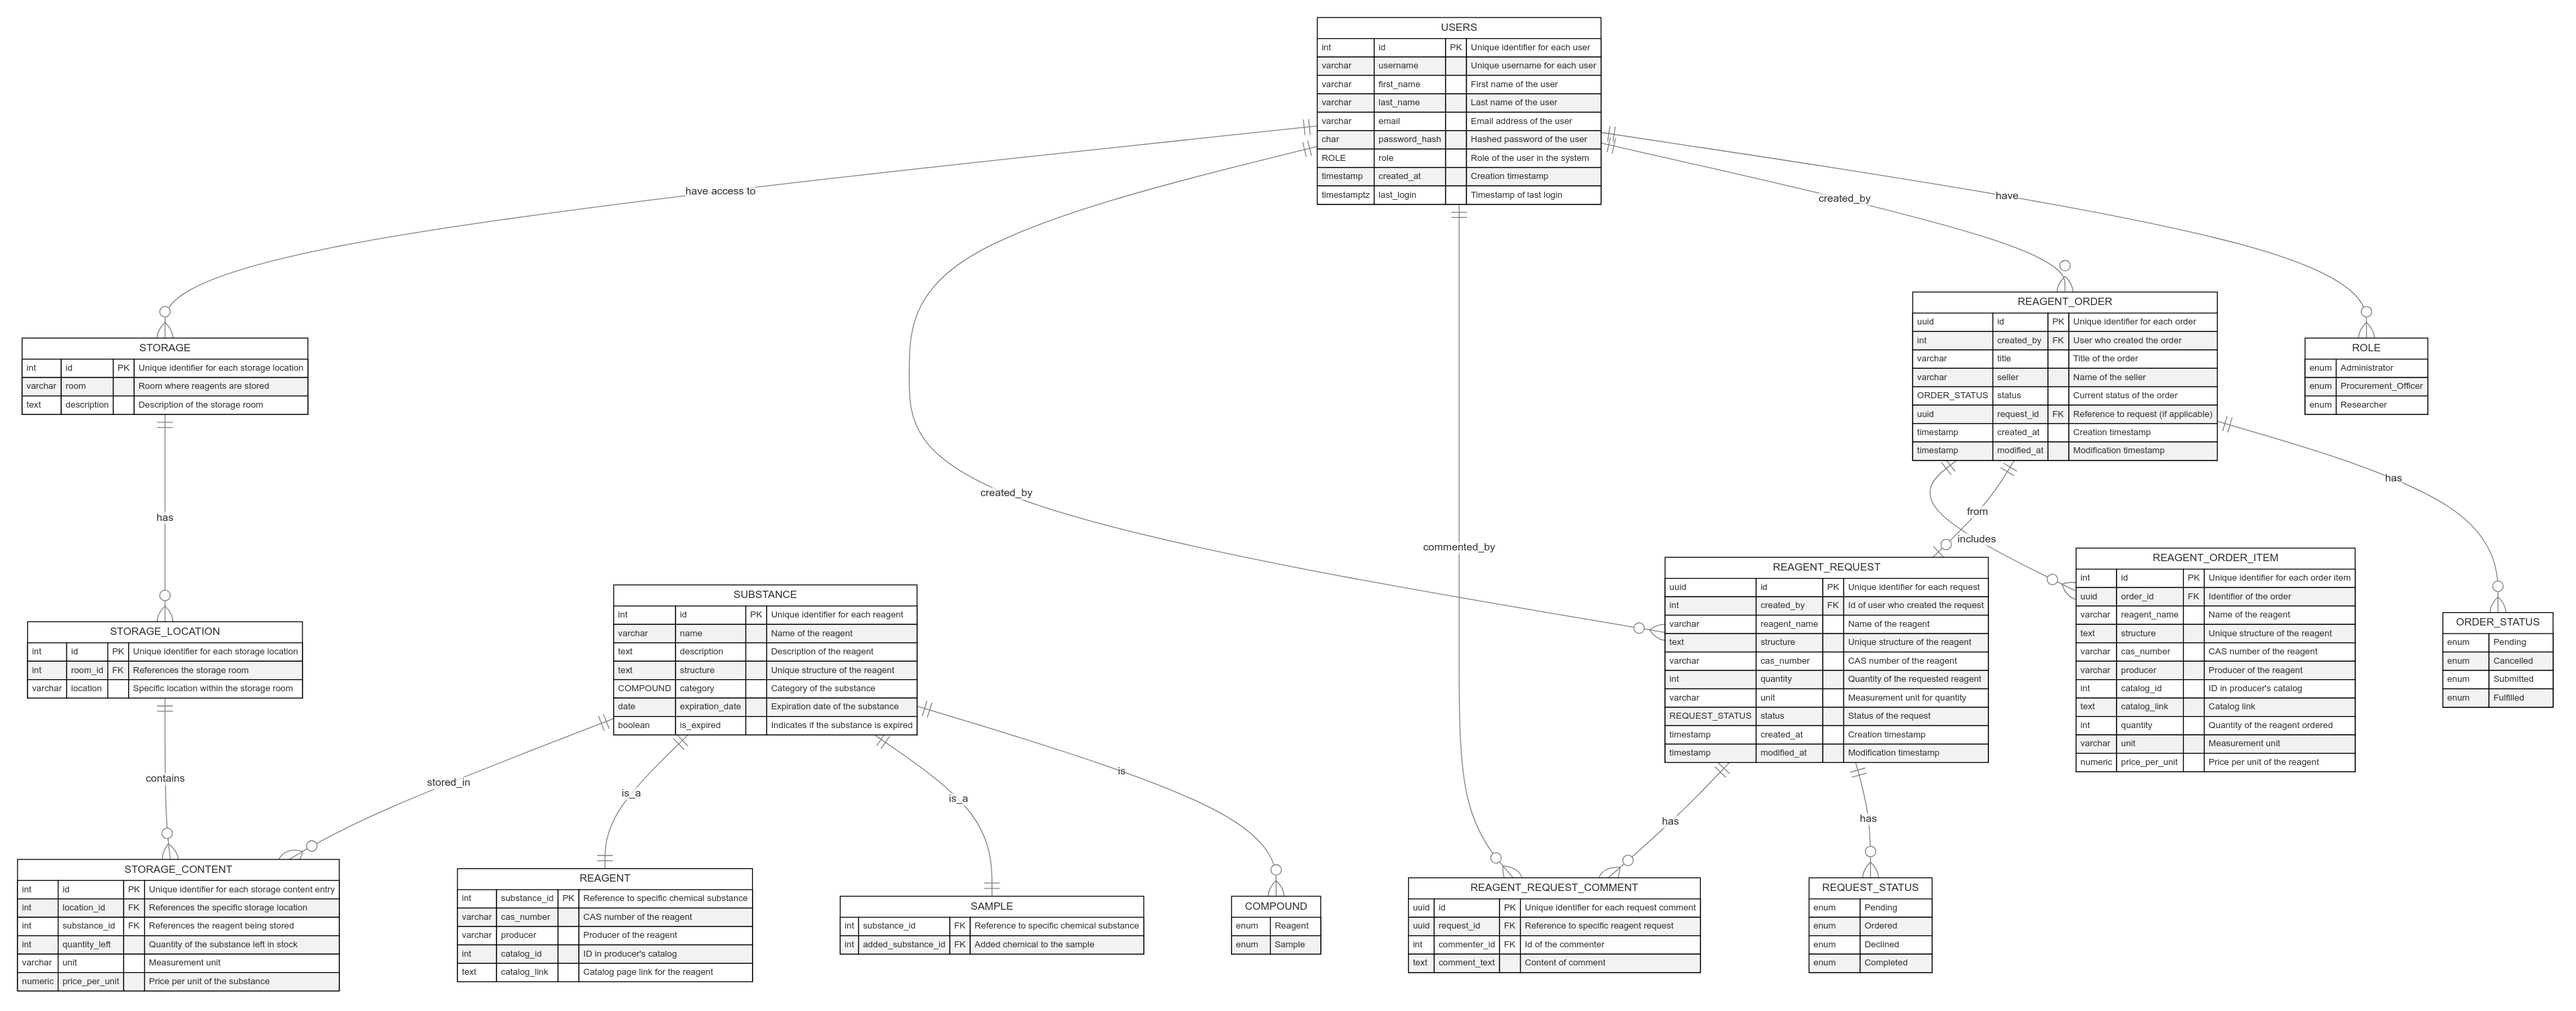
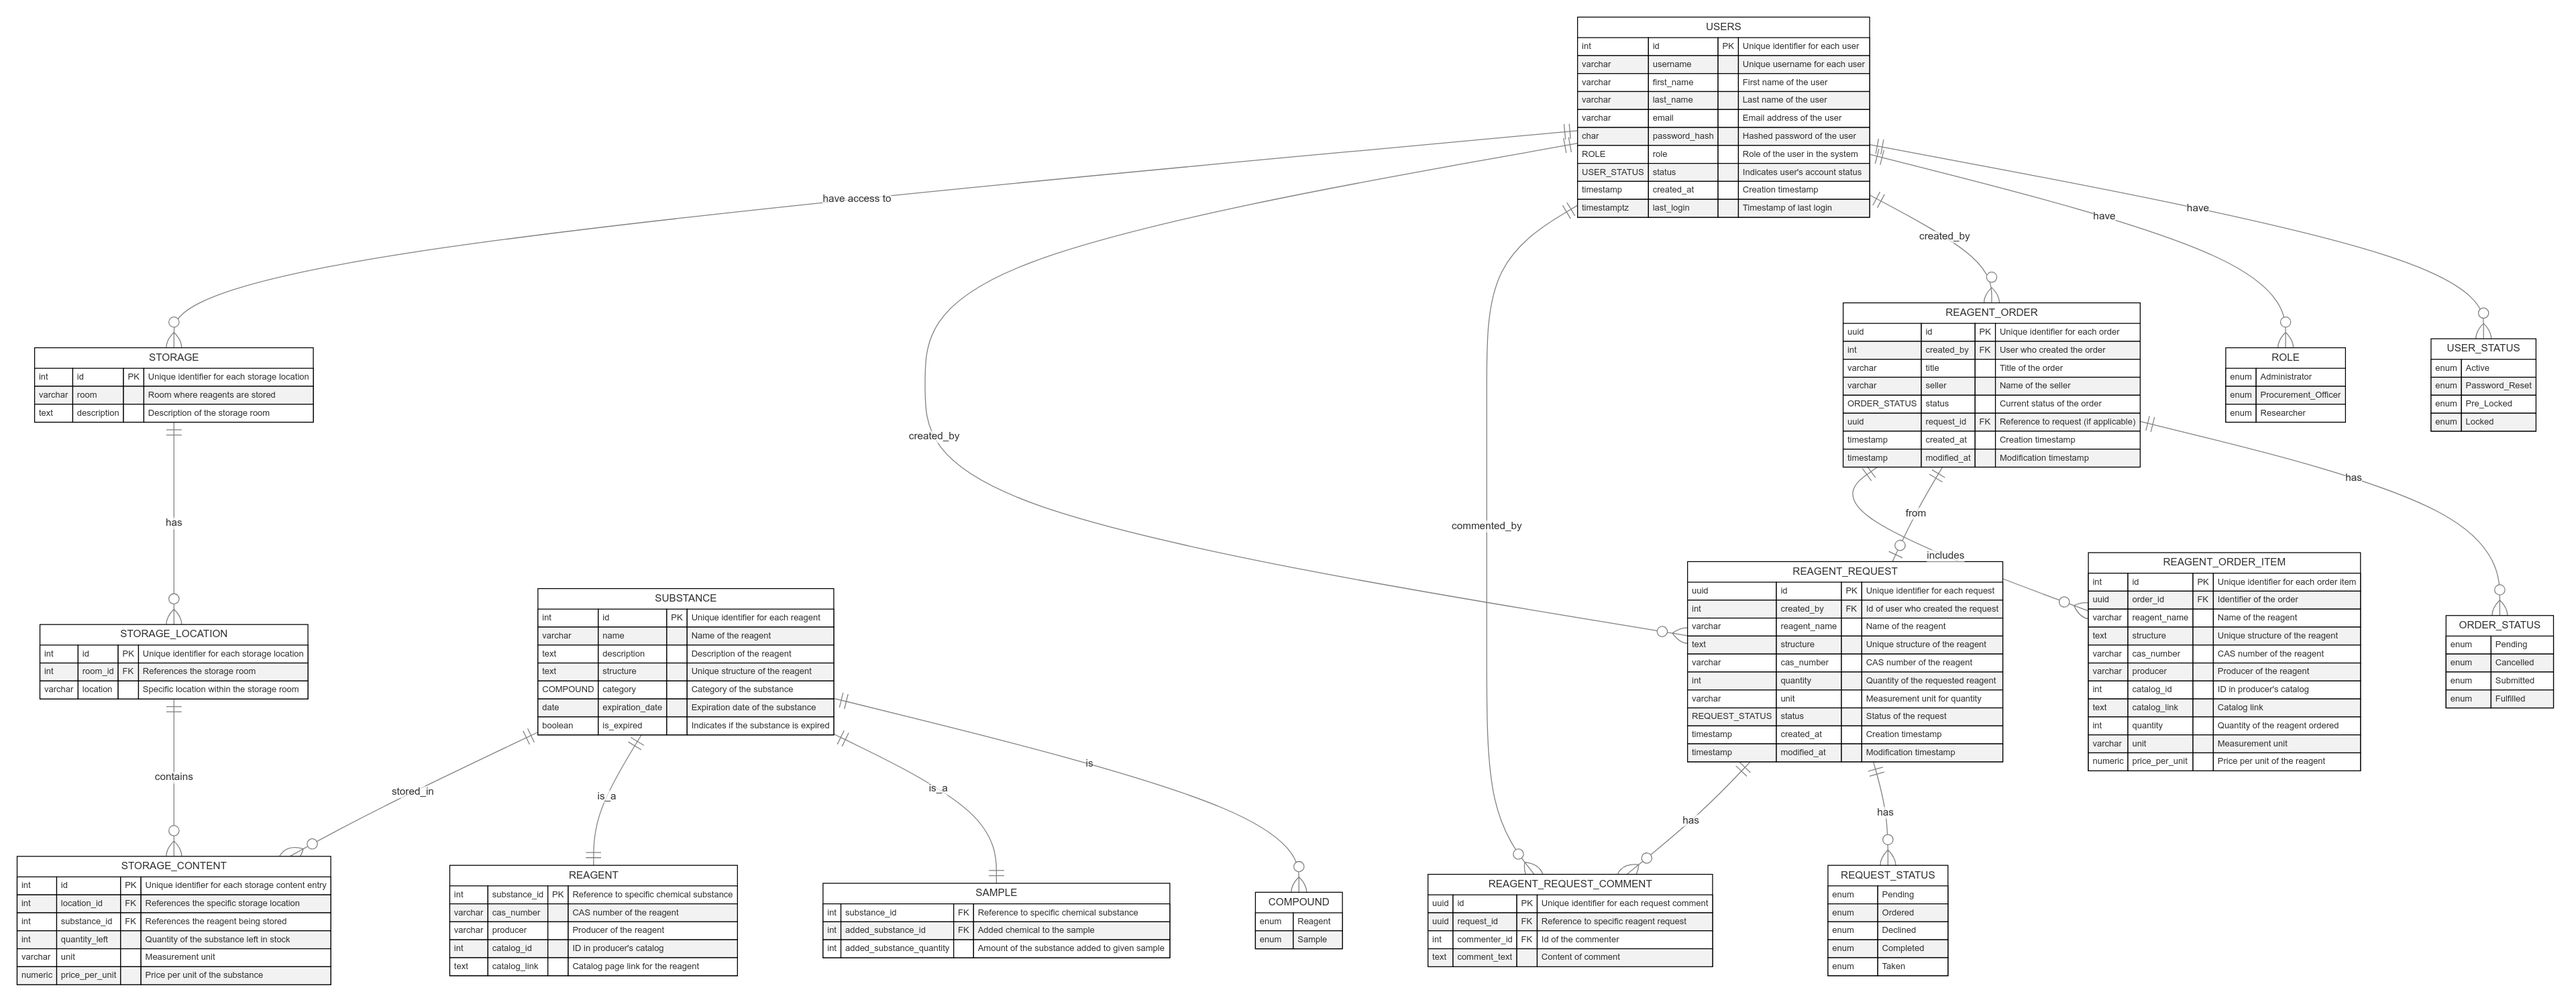
UI/update order form (#138)
* Update db diagram

* Add translations

* Update design to match customer feedback

* Refactor Accordion expansion logic

* Delete console.log

* Remove type

diff --git a/src/components/OrderForm/OrderForm.tsx b/src/components/OrderForm/OrderForm.tsx
@@ -1,4 +1,9 @@
+import { Delete as DeleteIcon } from "@mui/icons-material";
+import ArrowDropDownIcon from "@mui/icons-material/ArrowDropDown";
 import {
+  Accordion,
+  AccordionDetails,
+  AccordionSummary,
   Box,
   Button,
   Dialog,
@@ -6,9 +11,11 @@ import {
   DialogTitle,
   Divider,
   FormHelperText,
+  IconButton,
   Stack,
   TextField,
 } from "@mui/material";
+import { useState } from "react";
 import { SubmitHandler, useFieldArray, useForm } from "react-hook-form";
 import { useTranslation } from "react-i18next";
 
@@ -33,6 +40,8 @@ const OrderForm: React.FC<OrderFormProps> = ({
 }) => {
   const { t } = useTranslation();
 
+  const [expandedFieldId, setExpandedFieldId] = useState("");
+
   const {
     register,
     handleSubmit,
@@ -52,11 +61,11 @@ const OrderForm: React.FC<OrderFormProps> = ({
   });
 
   return (
-    <Dialog open={modalOpen} onClose={onClose} fullWidth maxWidth="sm">
+    <Dialog open={modalOpen} onClose={onClose} fullWidth maxWidth="md">
       <DialogTitle>
         {orderCreation
           ? t("orders.buttons.createOrder")
-          : t("createOrderForm.title")}
+          : t("createOrderForm.title.form")}
       </DialogTitle>
       <DialogContent
         sx={{
@@ -124,107 +133,159 @@ const OrderForm: React.FC<OrderFormProps> = ({
           <FormHelperText error sx={{ mt: 1, fontSize: 14 }}>
             {errors.reagents?.root?.message}
           </FormHelperText>
-          {fields.map((field, index, arr) => (
-            <Stack spacing={3} mt={5} mb={3} key={field.id}>
-              <Divider>
+          <Divider>
+            <Box
+              sx={{
+                display: "inline-block",
+                padding: "6px 12px",
+                fontSize: "20px",
+                fontWeight: 500,
+                color: "#004d40",
+                borderRadius: "16px",
+                backgroundColor: "#f0f0f0",
+                marginBottom: "15px",
+              }}
+            >
+              {t("createOrderForm.title.reagents")}
+            </Box>
+          </Divider>
+          {fields.map((field, index) => (
+            <Accordion
+              key={field.id}
+              sx={{
+                border: "1px solid #ccc",
+                margin: "0 ",
+                "&.MuiAccordion-root": {
+                  margin: 0,
+                },
+              }}
+              square
+              expanded={expandedFieldId === field.id}
+              onChange={() =>
+                setExpandedFieldId(expandedFieldId === field.id ? "" : field.id)
+              }
+            >
+              <AccordionSummary
+                id={field.id}
+                expandIcon={<ArrowDropDownIcon />}
+                sx={{
+                  "&.Mui-focusVisible": {
+                    backgroundColor: "transparent",
+                  },
+                  "&:hover": {
+                    backgroundColor: "transparent",
+                  },
+                }}
+              >
                 <Box
+                  onClick={(event) => event.stopPropagation()}
                   sx={{
-                    display: "inline-block",
-                    padding: "6px 12px",
-                    fontSize: "20px",
-                    fontWeight: 500,
-                    color: "#004d40",
-                    borderRadius: "16px",
-                    backgroundColor: "#f0f0f0",
+                    display: "flex",
+                    gap: 2,
+                    alignItems: "center",
+                    cursor: "default",
                   }}
                 >
-                  {`${t("substances.filters.options.Reagent")} №${arr.length - index}`}
+                  <TextField
+                    fullWidth
+                    label={t("createOrderForm.requiredFields.name.label")}
+                    {...register(`reagents.${index}.reagentName`, {
+                      required: t(
+                        "createOrderForm.requiredFields.name.requiredMessage"
+                      ),
+                    })}
+                    error={!!errors.reagents?.[index]?.reagentName}
+                  />
+                  <TextField
+                    label={t("createOrderForm.requiredFields.units.label")}
+                    fullWidth
+                    {...register(`reagents.${index}.unit`, {
+                      required: t(
+                        "createOrderForm.requiredFields.units.requiredMessage"
+                      ),
+                    })}
+                    error={!!errors.reagents?.[index]?.unit}
+                  />
+                  <TextField
+                    label={t("createOrderForm.requiredFields.quantity.label")}
+                    fullWidth
+                    inputProps={{ min: 0 }}
+                    type="number"
+                    {...register(`reagents.${index}.quantity`, {
+                      required: t(
+                        "createOrderForm.requiredFields.quantity.requiredMessage"
+                      ),
+                    })}
+                    error={!!errors.reagents?.[index]?.quantity}
+                  />
+                  <TextField
+                    label={t("createOrderForm.requiredFields.price.label")}
+                    fullWidth
+                    inputProps={{ min: 0 }}
+                    type="number"
+                    {...register(`reagents.${index}.pricePerUnit`, {
+                      required: t(
+                        "createOrderForm.requiredFields.price.requiredMessage"
+                      ),
+                    })}
+                    error={!!errors.reagents?.[index]?.pricePerUnit}
+                  />
+                  <IconButton
+                    onClick={(event) => {
+                      event.stopPropagation();
+                      remove(index);
+                    }}
+                    color="error"
+                    aria-label="delete"
+                  >
+                    <DeleteIcon />
+                  </IconButton>
                 </Box>
-              </Divider>
-              <TextField
-                label={t("createOrderForm.requiredFields.name.label")}
-                {...register(`reagents.${index}.reagentName`, {
-                  required: t(
-                    "createOrderForm.requiredFields.name.requiredMessage"
-                  ),
-                })}
-                helperText={errors.reagents?.[index]?.reagentName?.message}
-                error={!!errors.reagents?.[index]?.reagentName}
-              />
-              <Box sx={{ display: "flex", gap: 2 }}>
-                <TextField
-                  label={t("createOrderForm.requiredFields.units.label")}
-                  fullWidth
-                  {...register(`reagents.${index}.unit`, {
-                    required: t(
-                      "createOrderForm.requiredFields.units.requiredMessage"
-                    ),
-                  })}
-                  helperText={errors.reagents?.[index]?.unit?.message}
-                  error={!!errors.reagents?.[index]?.unit}
-                />
-                <TextField
-                  label={t("createOrderForm.requiredFields.quantity.label")}
-                  fullWidth
-                  inputProps={{ min: 0 }}
-                  type="number"
-                  {...register(`reagents.${index}.quantity`, {
-                    required: t(
-                      "createOrderForm.requiredFields.quantity.requiredMessage"
-                    ),
-                  })}
-                  helperText={errors.reagents?.[index]?.quantity?.message}
-                  error={!!errors.reagents?.[index]?.quantity}
-                />
-                <TextField
-                  label={t("createOrderForm.requiredFields.price.label")}
-                  fullWidth
-                  inputProps={{ min: 0 }}
-                  type="number"
-                  {...register(`reagents.${index}.pricePerUnit`, {
-                    required: t(
-                      "createOrderForm.requiredFields.price.requiredMessage"
-                    ),
-                  })}
-                  helperText={errors.reagents?.[index]?.pricePerUnit?.message}
-                  error={!!errors.reagents?.[index]?.pricePerUnit}
-                />
-              </Box>
-              <Box sx={{ display: "flex", gap: 2 }}>
-                <TextField
-                  label={t("addSubstanceForm.requiredFields.CASNumber.label")}
-                  fullWidth
-                  {...register(`reagents.${index}.CASNumber`)}
-                />
-                <TextField
-                  label={t("addSubstanceForm.requiredFields.producer.label")}
-                  fullWidth
-                  {...register(`reagents.${index}.producer`)}
-                />
-              </Box>
-              <TextField
-                label={t("addSubstanceForm.requiredFields.structure.label")}
-                fullWidth
-                {...register(`reagents.${index}.structure`)}
-              />
-              <Box sx={{ display: "flex", gap: 2 }}>
-                <TextField
-                  label={t("addSubstanceForm.requiredFields.catalogLink.label")}
-                  fullWidth
-                  sx={{ flex: "1" }}
-                  {...register(`reagents.${index}.catalogLink`)}
-                />
-                <TextField
-                  label={t("addSubstanceForm.requiredFields.catalogId.label")}
-                  fullWidth
-                  sx={{ flex: "0 0 20%" }}
-                  {...register(`reagents.${index}.catalogId`)}
-                />
-              </Box>
-              <Button type="button" onClick={() => remove(index)}>
-                {t("createOrderForm.buttons.removeReagentFromOrder")}
-              </Button>
-            </Stack>
+              </AccordionSummary>
+              <AccordionDetails>
+                <Stack spacing={2}>
+                  <Box sx={{ display: "flex", gap: 2 }}>
+                    <TextField
+                      label={t(
+                        "addSubstanceForm.requiredFields.CASNumber.label"
+                      )}
+                      fullWidth
+                      {...register(`reagents.${index}.CASNumber`)}
+                    />
+                    <TextField
+                      label={t(
+                        "addSubstanceForm.requiredFields.producer.label"
+                      )}
+                      fullWidth
+                      {...register(`reagents.${index}.producer`)}
+                    />
+                  </Box>
+                  <TextField
+                    label={t("addSubstanceForm.requiredFields.structure.label")}
+                    fullWidth
+                    {...register(`reagents.${index}.structure`)}
+                  />
+                  <Box sx={{ display: "flex", gap: 2 }}>
+                    <TextField
+                      label={t(
+                        "addSubstanceForm.requiredFields.catalogLink.label"
+                      )}
+                      fullWidth
+                      sx={{ flex: "1" }}
+                      {...register(`reagents.${index}.catalogLink`)}
+                    />
+                    <TextField
+                      label={t(
+                        "addSubstanceForm.requiredFields.catalogId.label"
+                      )}
+                      fullWidth
+                      sx={{ flex: "0 0 20%" }}
+                      {...register(`reagents.${index}.catalogId`)}
+                    />
+                  </Box>
+                </Stack>
+              </AccordionDetails>
+            </Accordion>
           ))}
         </Box>
       </DialogContent>

diff --git a/README.md b/README.md
@@ -192,12 +192,18 @@ class dashboard grey;
 
 - **Database Diagram**: Illustrates the key entities and relationships in our database.
 
-```mermaid
-erDiagram
+```erDiagram
     ROLE {
         enum Administrator
         enum Procurement_Officer
         enum Researcher
+    }
+
+    USER_STATUS {
+        enum Active
+        enum Password_Reset
+        enum Pre_Locked
+        enum Locked
     }
 
     COMPOUND {
@@ -210,6 +216,7 @@ erDiagram
         enum Ordered
         enum Declined
         enum Completed
+        enum Taken
     }
 
     ORDER_STATUS {
@@ -258,6 +265,7 @@ erDiagram
         varchar email "Email address of the user"
         char password_hash "Hashed password of the user"
         ROLE role "Role of the user in the system"
+        USER_STATUS status "Indicates user's account status"
         timestamp created_at "Creation timestamp"
         timestamptz last_login "Timestamp of last login"
     }
@@ -273,6 +281,7 @@ erDiagram
     SAMPLE {
         int substance_id FK "Reference to specific chemical substance"
         int added_substance_id FK "Added chemical to the sample"
+        int added_substance_quantity "Amount of the substance added to given sample"
     }
 
     REAGENT_REQUEST {
@@ -335,6 +344,7 @@ erDiagram
     REAGENT_ORDER ||--o{ ORDER_STATUS : "has"
     REAGENT_REQUEST ||--o{ REQUEST_STATUS : "has"
     USERS ||--o{ROLE: "have"
+    USERS ||--o{USER_STATUS: "have"
     SUBSTANCE ||--o{COMPOUND: "is"
 ```
 
